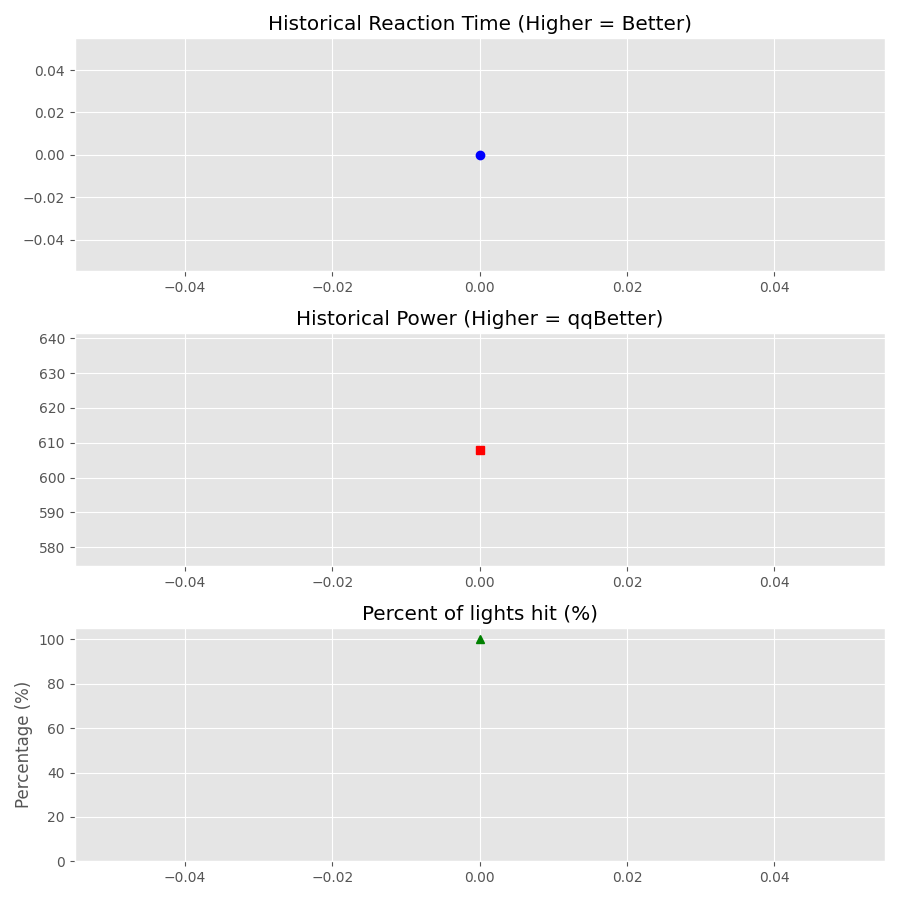
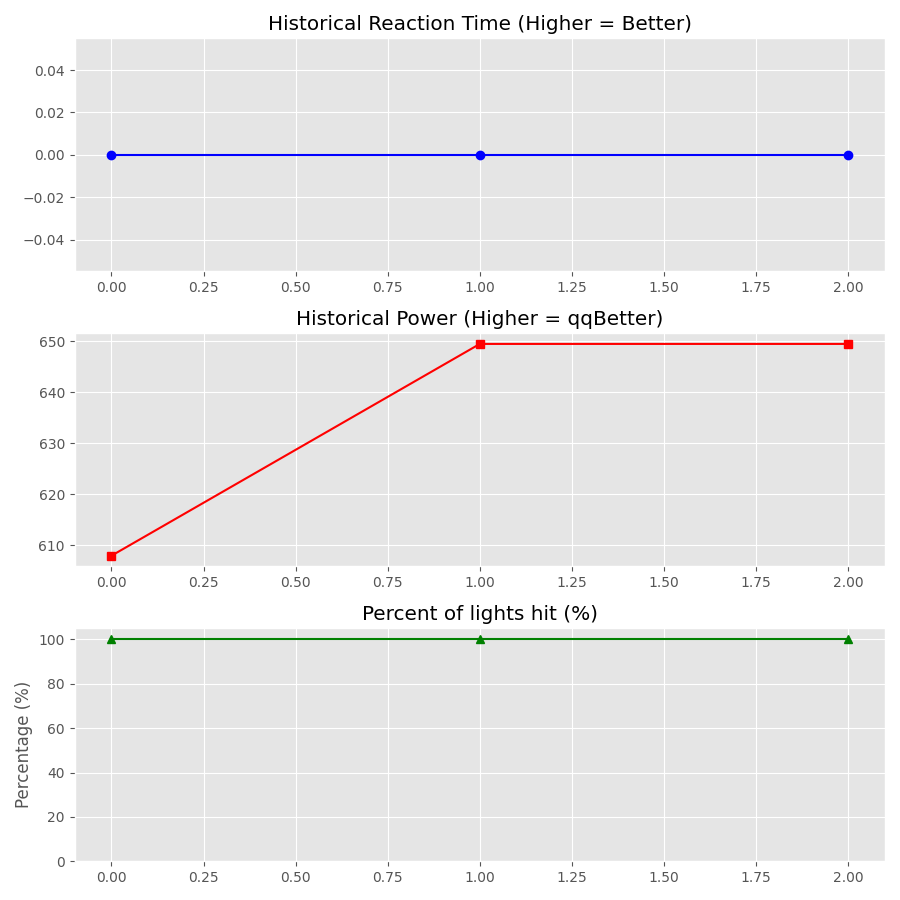
multicolor for arduino

diff --git a/app.py b/app.py
@@ -217,19 +217,31 @@ def main(page: ft.Page):
         await power_calc()
 
     def score():
+        last_cmd = ""
         while True:
+            # 1. Read from Arduino (Reactions & Powers)
             if ser and ser.in_waiting > 0:
                 try:
                     line = ser.readline().decode('utf-8').strip()
-                    with open("cmd.txt", 'r') as f:
-                        cmd = f.read().strip()
-                        ser.write(f"{cmd}".encode())
                     if line:
                         tracker.update(line)
                 except Exception as e:
                     print(f"Serial Read Error: {e}")
-            time.sleep(0.01) 
-
+            
+            # 2. Check for new commands from auto.py independently
+            try:
+                if os.path.exists("cmd.txt"):
+                    with open("cmd.txt", 'r') as f:
+                        cmd = f.read().strip()
+                    
+                    # Only send if the command is new and not empty
+                    if cmd and cmd != last_cmd and ser:
+                        ser.write(f"{cmd}\n".encode())
+                        last_cmd = cmd 
+            except Exception as e:
+                pass # Ignore temporary file read conflicts
+            
+            time.sleep(0.01)
     async def jumper_play(e):
         print("Launching Jumper Mode...")
         await audio.pause()

diff --git a/auto.py b/auto.py
@@ -8,7 +8,7 @@ import random
 
 AUDIO_FILE = 'GeometryDash/Amethyst.mp3'
 LANE_COUNT = 12
-SENSITIVITY = 0.04
+SENSITIVITY = 0.1
 HOP = 96
 OFFSET = 0.06 
 SHOOT_TIME = 1.0   
@@ -79,7 +79,7 @@ try:
                 active_bullets.append([lane_assignments[beat_index], elapsed, False])
                 beat_index += 1
                 choice = random.randint(1, 4)
-                randpin = random.randint(1, 4)
+                randpin = random.randint(0, 3)
                 if choice == 1:
                     with open('cmd.txt', 'w') as f:
                         f.write(f"{randpin},G,700\n")
